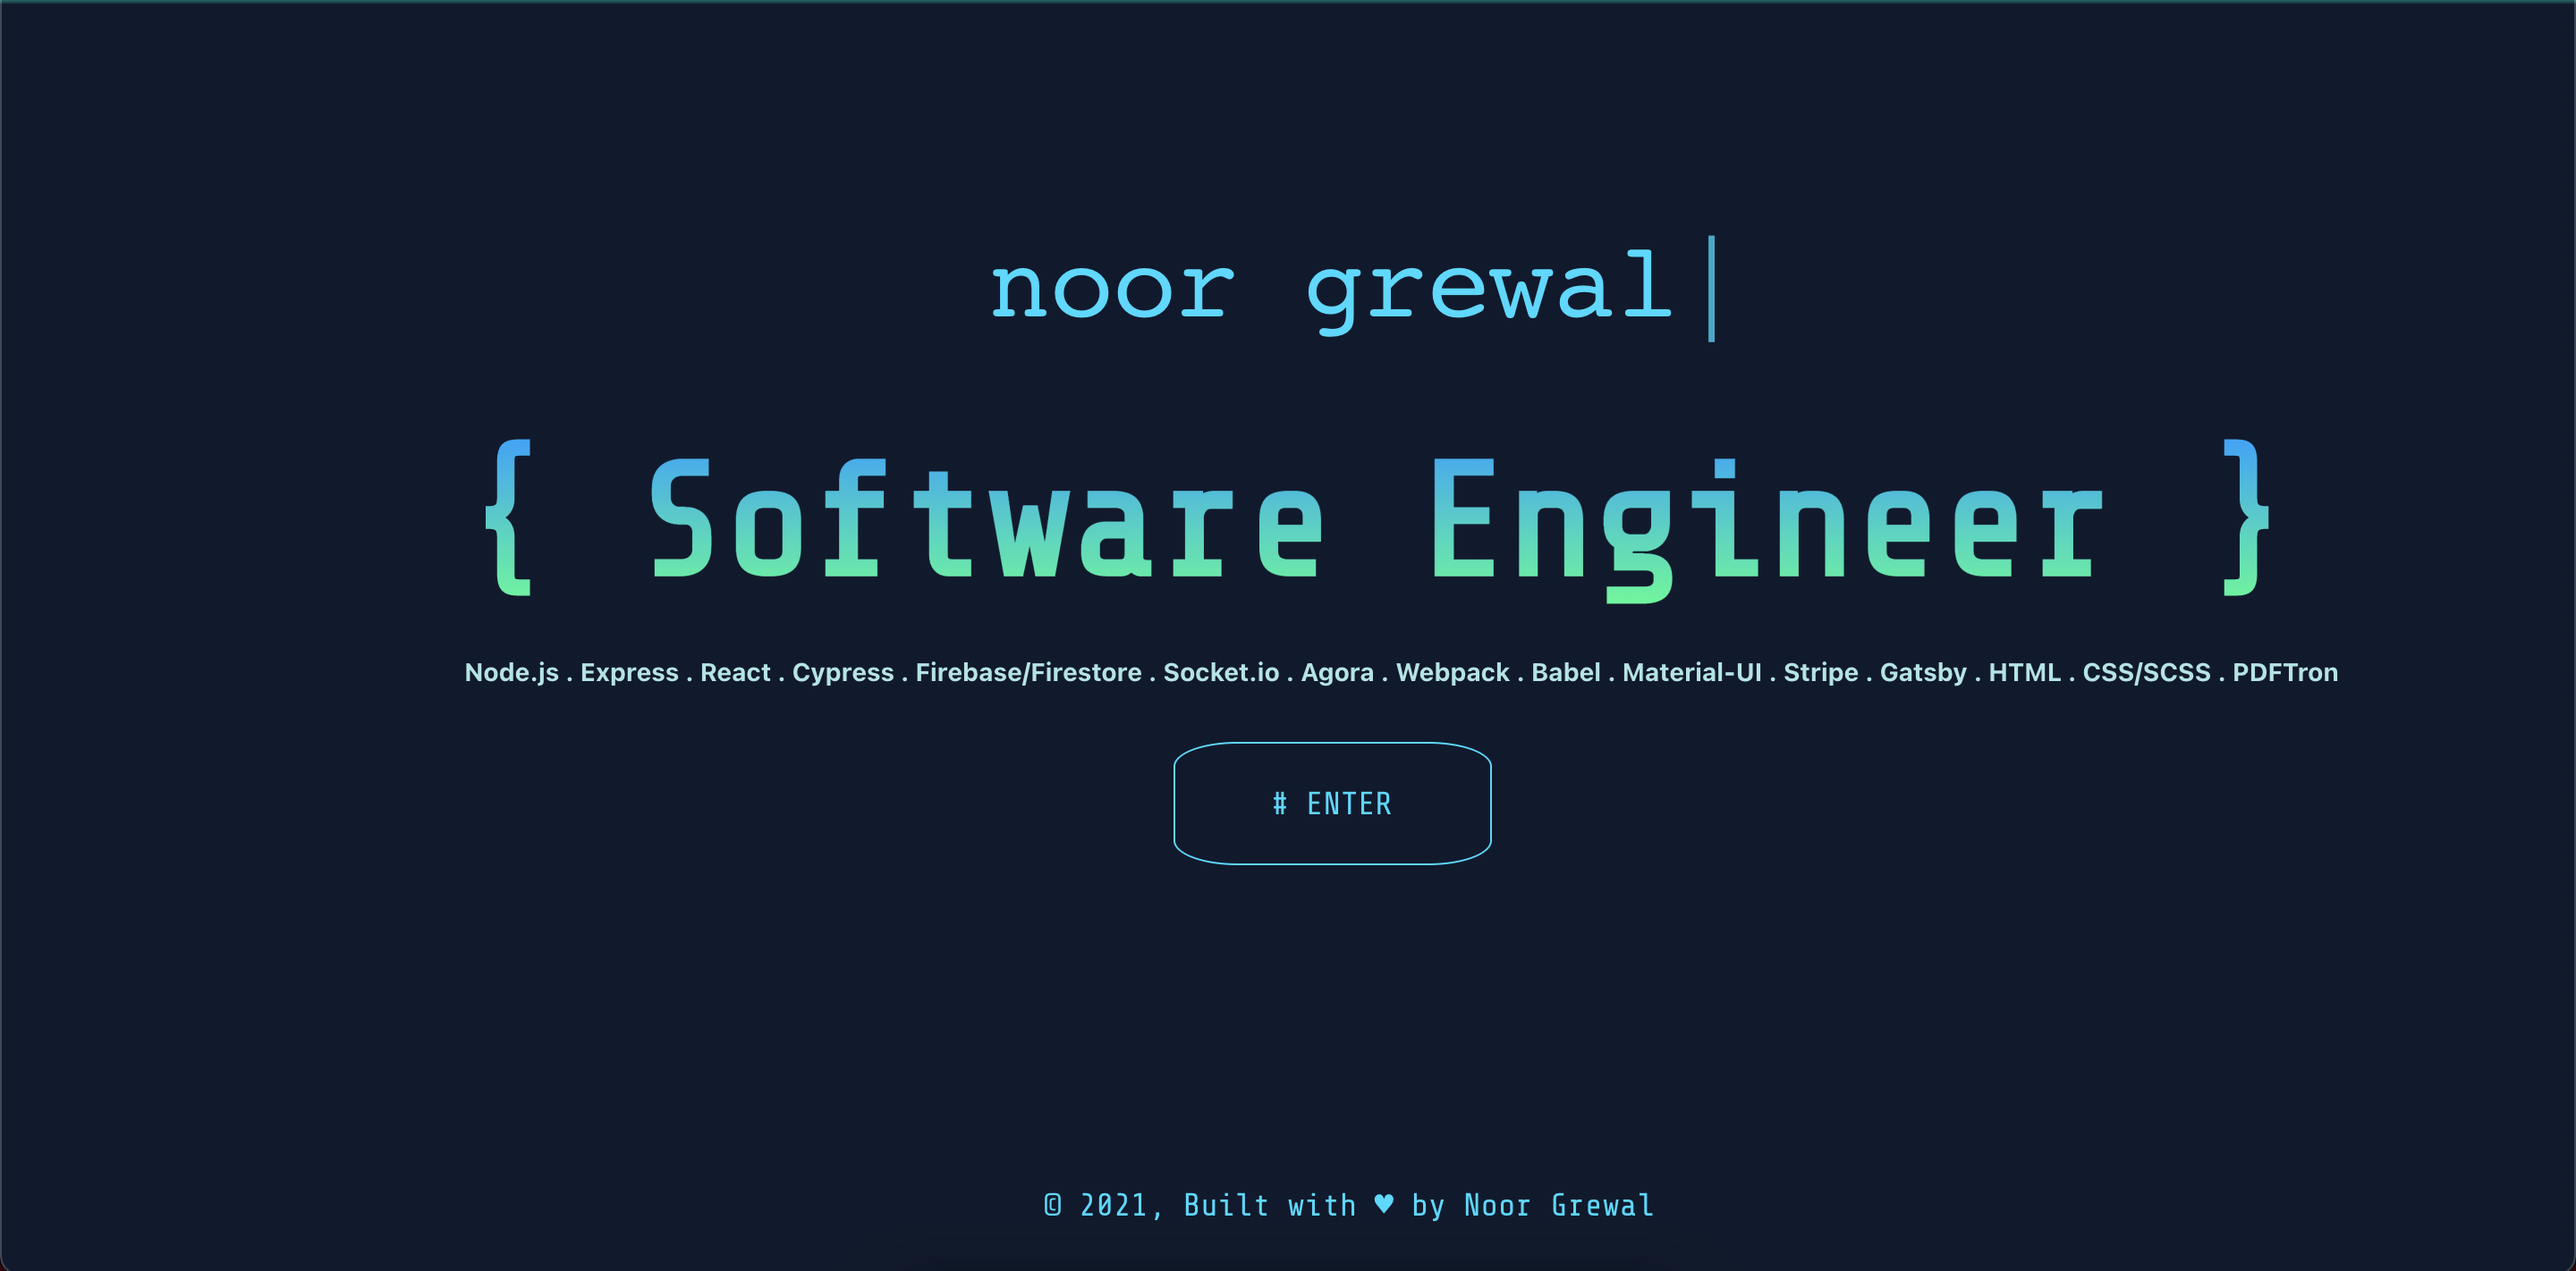
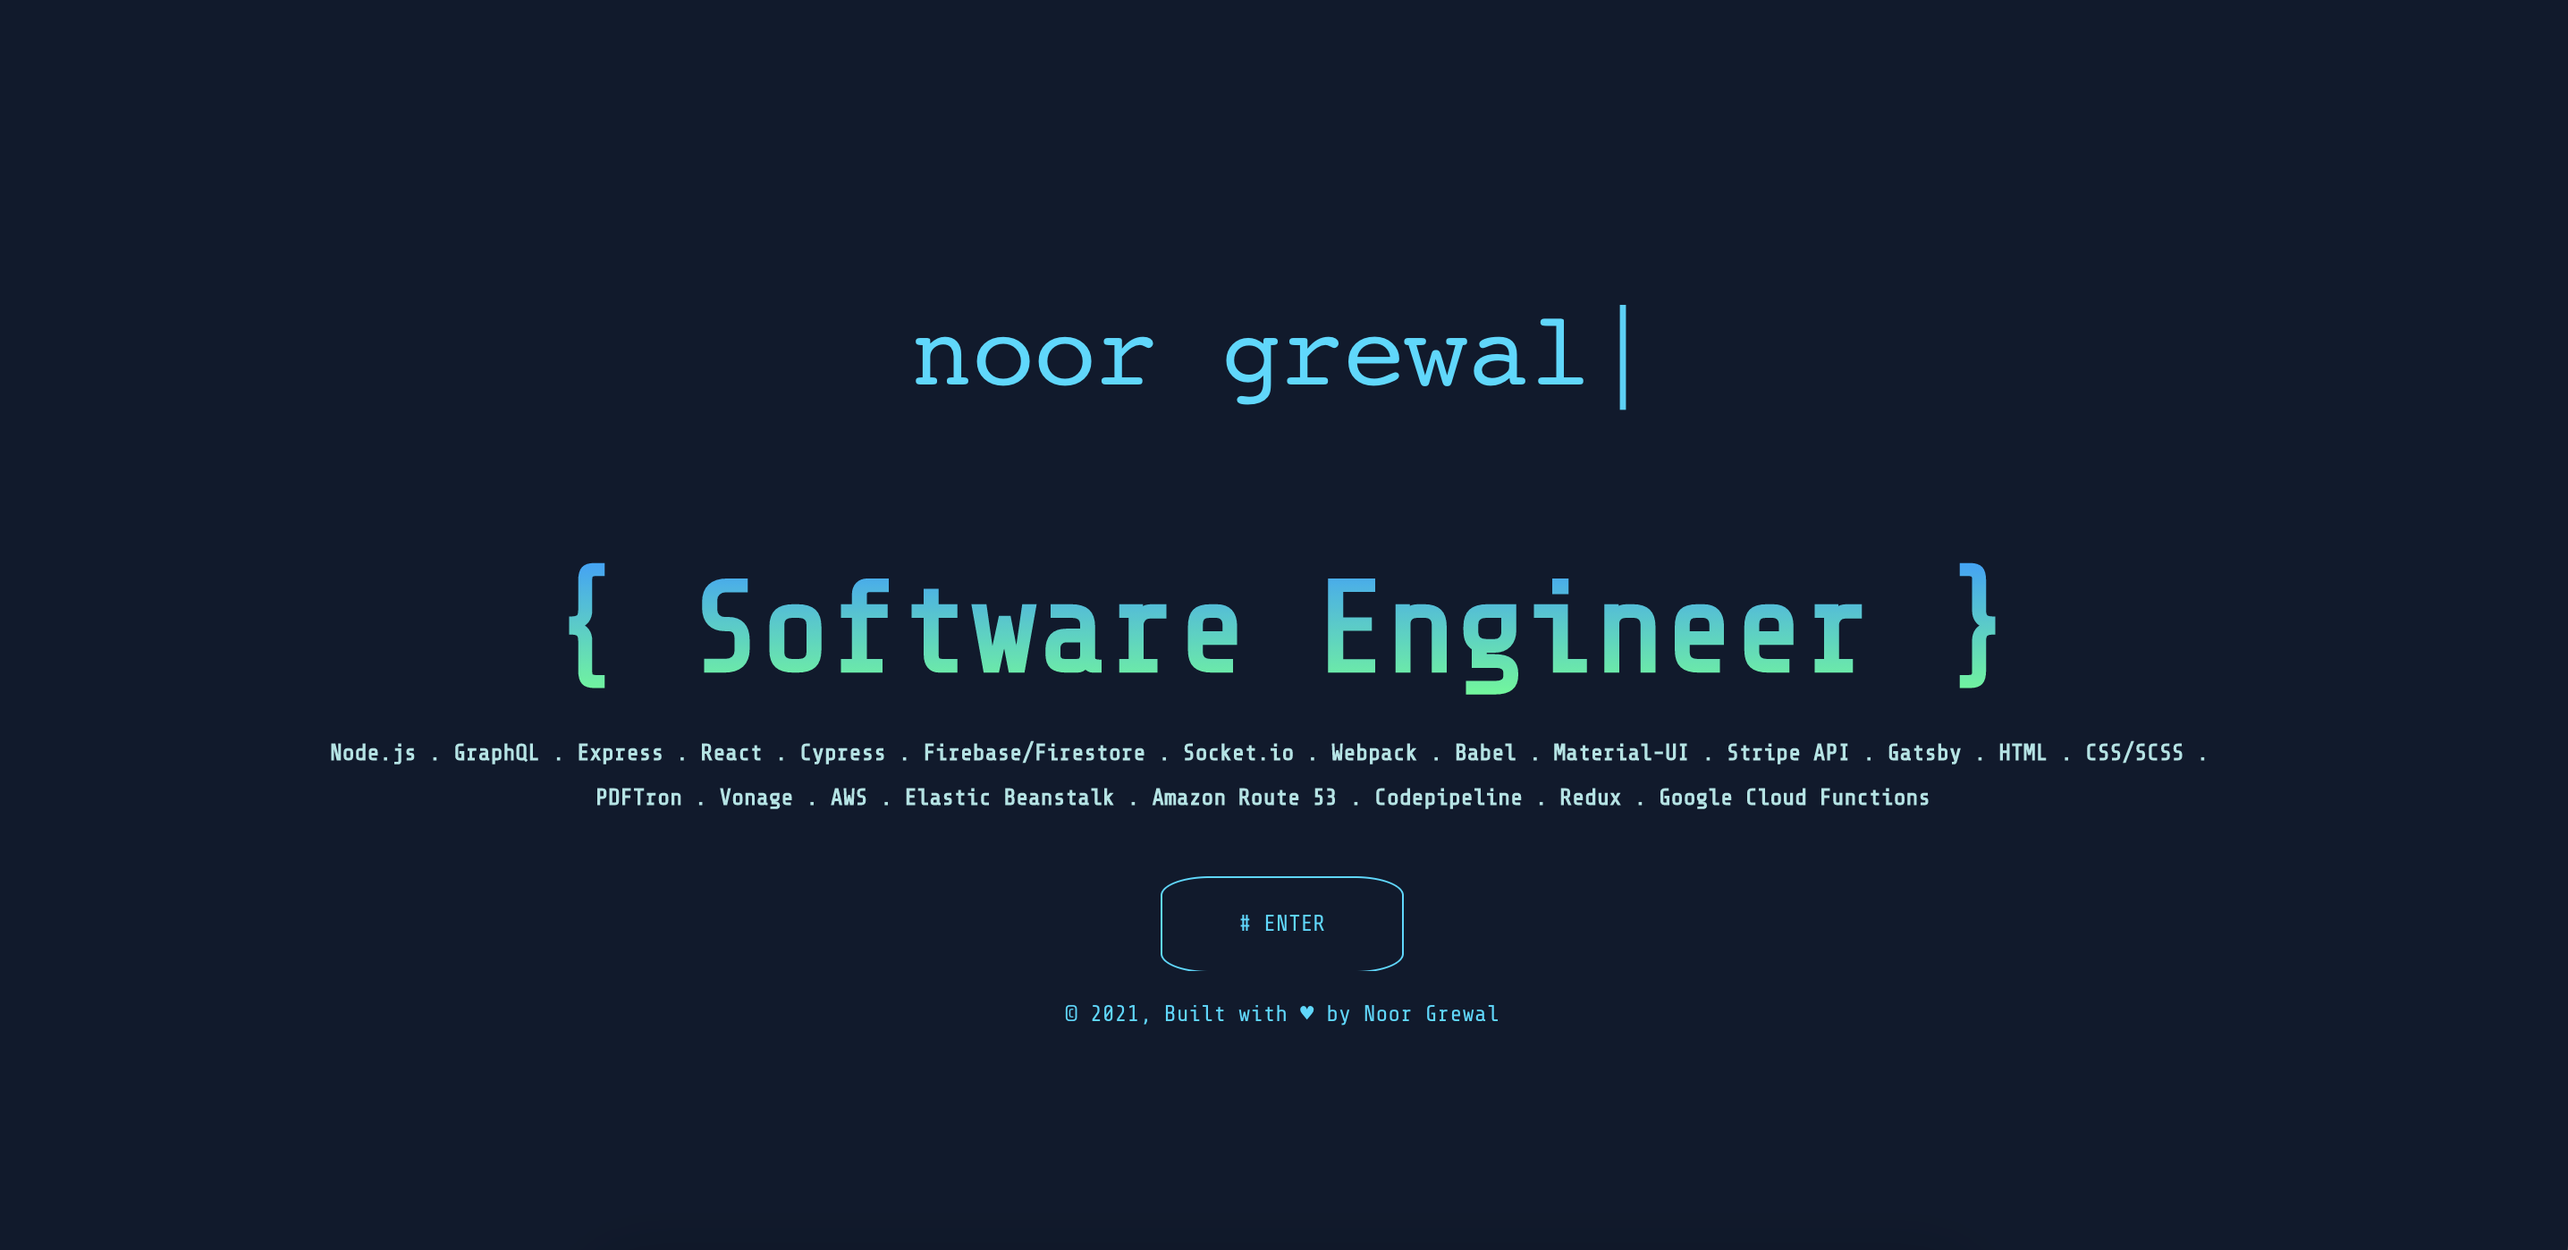
final touches

diff --git a/src/components/About.js b/src/components/About.js
@@ -8,12 +8,17 @@ const About = () => {
       <Grid container xs={12} sm={12}>
         <Grid item xs={12} sm={12}>
           <h3 style={{ fontFamily: "Share Tech Mono, monospace" }}>
-            I build things for the web.
+            I create value through code and design.
           </h3>
           <p>
-            Hello, I'm a software engineer based in NY. My passion for software
-            lies with dreaming up ideas and making them come true with elegant
-            interfaces. I specialize in building web applications and websites
+            I’m Jagnoor, but people call me "Noor.” As a software engineer, I
+            specialize in building efficient web applications (frontend and
+            backend) that work across all platforms and browsers. I care deeply
+            about putting together products that are usable and pleasant for
+            most number of people possible. When off work, I spend time
+            improving my knowledge on software development. I enjoy building
+            projects (mostly developer tools) that help me understand how things
+            work at a deeper level or just learn something new.
           </p>
           <br />
           <Link className="link_" to="#contact">

diff --git a/src/pages/index.js b/src/pages/index.js
@@ -54,8 +54,9 @@ const IndexPage = () => {
             >
               {" "}
               Node.js . GraphQL . Express . React . Cypress . Firebase/Firestore
-              . Socket.io . Agora . Webpack . Babel . Material-UI . Stripe .
-              Gatsby . HTML . CSS/SCSS . PDFTron{" "}
+              . Socket.io . Webpack . Babel . Material-UI . Stripe API . Gatsby
+              . HTML . CSS/SCSS . PDFTron . Vonage . AWS . Elastic Beanstalk .
+              Amazon Route 53 . Codepipeline . Redux . Google Cloud Functions{" "}
             </h6>
           </div>
         </center>

diff --git a/src/components/Drawer.js b/src/components/Drawer.js
@@ -171,7 +171,7 @@ export default function PersistentDrawerRight({ children }) {
                       .split(" ")
                       .join("")
                       .toLowerCase()}`
-                  : `https://drive.google.com/file/d/1ta6t3ewzs0lFxt740RxNtoS9HhtMOo11/view?usp=sharing`
+                  : `https://drive.google.com/file/d/1rsfwS9Wm9wCxKzwOQgWbgqi69lB7yjW1/view?usp=sharing`
               }
               style={{ textDecoration: "none", color: "inherit" }}
               target={`${text === "Resume" ? "_blank" : ""}`}

diff --git a/src/pages/profile.js b/src/pages/profile.js
@@ -68,7 +68,7 @@ const Profile = () => {
                   marginTop: "5em",
                 }}
               >
-                grewal.jagnoor@gmail.com
+                noor.grewal@berkeley.edu
               </p>
               <div style={{ display: "flex", justifyContent: "center" }}>
                 <Link

diff --git a/src/data/WorkExperience/OutboxEDU.md b/src/data/WorkExperience/OutboxEDU.md
@@ -6,18 +6,17 @@ period: "May 2020 - Present"
 type: "workexperience"
 ---
 
-- Lead web development team using agile development techniques in building our core product - a learning management system that allows schools and teachers to teach in a 3D learning space (React, CSS/SCSS, Firebase/Firestore, Express, Unity, Webpack, Babel, Socket.io, Material-UI, Stripe, PDFTron)
+- Lead web development team using agile development techniques in building our core product - learning management system that allows schools and teachers to teach in 3D learning space (React, CSS/SCSS, Firebase/Firestore, Express, Unity, Webpack, Babel, Socket.io, Material-UI, Stripe, PDFTron)
 
-- Implemented 80 features in one month and a half. Solved 100% bugs reported by users and developed 100% features requested
+- Implemented 80 features in one month and half. Solved 100% bugs reported by users and developed 100% features requested
 
-- TDD and QA: Introduced Cypress to our web development team, implemented end-to-end testing, and automated 70+ test cases for our core platform (Cypress)
+- TDD and QA: Implemented end-to-end testing and automated 70+ test cases for our core platform (Cypress)
 
 - CI/CD: Deployed web application to AWS Elastic Beanstalk, and configured SSL and HTTPS (Elastic Beanstalk, Amazon Route 53, Codepipeline)
 
-- Payments: Built a payments platform that allows users to pay for products lifetime or weekly, ask for refund, file disputes, and receive payouts (Stripe API)
+- Built payments platform to allow users to pay for products, ask for refunds, file disputes, and receive payouts (Google Cloud Functions, Stripe API)
 
-- Built a pdf management system that allows saving annotated documents to db in real time (React, PDFTRON, SCSS, Firebase/Firestore)
+- Built document solution that allows reading, editing, annotating, and saving documents in real time (React, PDFTron, SCSS, Firebase/Firestore)
 
-- Built an events calendar which allows students to view their upcoming assignments and deadlines (React-big-calendar)
-
-- Communication: Built a video chat system that lets students and teachers communicate in real time (React, Agora, SCSS, Socket.io)
+- Built an events calendar which allows students to view their upcoming assignments and deadlines (React-big-calendar, Material-UI)
+- Developed custom video experience that lets students and teachers communicate, share screen, raise hand, and answer help tickets in real time (React, Vonage, SCSS, Socket.io)

diff --git a/src/data/Projects/Editor.md b/src/data/Projects/Editor.md
@@ -8,4 +8,4 @@ link: "https://gjagnoor.github.io/editor/"
 github: "https://github.com/gjagnoor/editor"
 ---
 
-Created a versatile code editor for JS that runs in the browser. Allows auto-indentation, intellisense, and in-browser execution of code
+Created versatile code editor that runs in the browser. Allows auto-indentation, intellisense, and in-browser execution of code (Developer tool, Codepen clone)

diff --git a/src/data/Projects/Aaria.md b/src/data/Projects/Aaria.md
@@ -8,4 +8,4 @@ link: "https://www.npmjs.com/package/aaria-cli"
 github: "https://github.com/gjagnoor/aaria-cli"
 ---
 
-Command line tool - A recursive directory/file listing program that produces a depth indented listing of folders/files
+200+ downloads in 13 days. A recursive directory/file listing program that produces a depth indented listing of folders/files (Command Line Tool)
